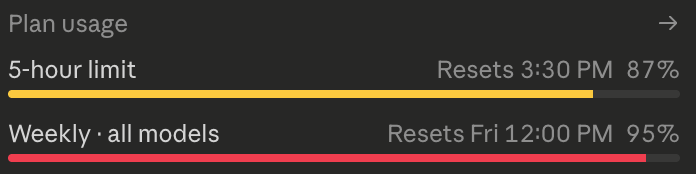
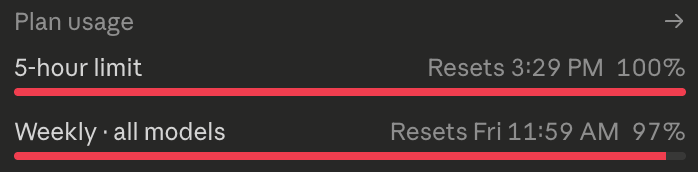
Edge demo iframe scales with resize, cache-bust usage limit image

diff --git a/index.html b/index.html
@@ -778,7 +778,7 @@ h3.slide-title { font-family: var(--serif); font-size: 34px; font-weight: 400; l
     </div>
     <div class="anim d2" style="display:flex;align-items:start;justify-content:center;padding-top:0;">
       <div id="edge-demo-frame" style="position:relative;width:290px;height:595px;overflow:hidden;background:transparent;border-radius:28px;">
-        <iframe src="https://edge-demo.info" style="position:absolute;top:-26px;left:-8px;width:460px;height:960px;border:none;transform:scale(0.64);transform-origin:top left;" scrolling="no" allow="autoplay"></iframe>
+        <iframe id="edge-demo-iframe" src="https://edge-demo.info" style="position:absolute;top:0;left:0;width:453px;height:930px;border:none;transform:scale(0.64);transform-origin:top left;" scrolling="no" allow="autoplay"></iframe>
         <div class="edge-resize-handle edge-resize-e"></div>
         <div class="edge-resize-handle edge-resize-s"></div>
         <div class="edge-resize-handle edge-resize-se"></div>
@@ -959,7 +959,7 @@ h3.slide-title { font-family: var(--serif); font-size: 34px; font-weight: 400; l
       <img src="Era%203/API%3AUsage%20payments/Lovable%20payments.png" class="anim d3" style="position:absolute;top:175px;left:20px;width:68%;border-radius:6px;border:1px solid var(--border);box-shadow:0 2px 10px rgba(0,0,0,0.07);background:white;padding:4px;">
       <img src="Era%203/API%3AUsage%20payments/Codex%20Subscription.png" class="anim d4" style="position:absolute;top:300px;left:0;width:50%;border-radius:6px;border:1px solid var(--border);box-shadow:0 2px 10px rgba(0,0,0,0.07);background:white;padding:4px;">
       <img src="Era%203/API%3AUsage%20payments/Gemini%20API.png" class="anim d5" style="position:absolute;top:290px;right:0;width:50%;border-radius:6px;border:1px solid var(--border);box-shadow:0 2px 10px rgba(0,0,0,0.07);background:white;padding:4px;">
-      <img src="Era%203/API%3AUsage%20payments/usage%20limit.png" class="anim d6" style="position:absolute;top:380px;left:20%;width:68%;border-radius:6px;border:1px solid var(--border);box-shadow:0 2px 10px rgba(0,0,0,0.07);background:#1a1a1a;padding:4px;">
+      <img src="Era%203/API%3AUsage%20payments/usage%20limit.png?v=2" class="anim d6" style="position:absolute;top:380px;left:20%;width:68%;border-radius:6px;border:1px solid var(--border);box-shadow:0 2px 10px rgba(0,0,0,0.07);background:#1a1a1a;padding:4px;">
     </div>
     <!-- Right: Insights -->
     <div>
@@ -1128,8 +1128,15 @@ document.addEventListener('keydown', () => { const h=document.getElementById('ke
     });
   });
 
-  // Edge demo bidirectional resize
+  // Edge demo bidirectional resize — iframe grows with container
   const edgeFrame = document.getElementById('edge-demo-frame');
+  const edgeIframe = document.getElementById('edge-demo-iframe');
+  const iframeScale = 0.64;
+  function syncIframeSize() {
+    if (!edgeFrame || !edgeIframe) return;
+    edgeIframe.style.width = (edgeFrame.offsetWidth / iframeScale) + 'px';
+    edgeIframe.style.height = (edgeFrame.offsetHeight / iframeScale) + 'px';
+  }
   if (edgeFrame) {
     edgeFrame.querySelectorAll('.edge-resize-handle').forEach(handle => {
       const resizeH = handle.classList.contains('edge-resize-e') || handle.classList.contains('edge-resize-se');
@@ -1141,13 +1148,14 @@ document.addEventListener('keydown', () => { const h=document.getElementById('ke
         scale = deck.getBoundingClientRect().width / 1280;
         startX = e.clientX; startY = e.clientY;
         startW = edgeFrame.offsetWidth; startH = edgeFrame.offsetHeight;
-        edgeFrame.querySelector('iframe').style.pointerEvents = 'none';
+        edgeIframe.style.pointerEvents = 'none';
         const onMove = ev => {
           if (resizeH) edgeFrame.style.width = Math.max(150, startW + (ev.clientX - startX) / scale) + 'px';
           if (resizeV) edgeFrame.style.height = Math.max(200, startH + (ev.clientY - startY) / scale) + 'px';
+          syncIframeSize();
         };
         const onUp = () => {
-          edgeFrame.querySelector('iframe').style.pointerEvents = '';
+          edgeIframe.style.pointerEvents = '';
           document.removeEventListener('mousemove', onMove);
           document.removeEventListener('mouseup', onUp);
         };